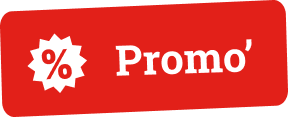
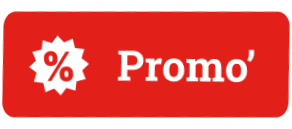
Upgrade to sdk 6.0.1 & fix discount Tag

diff --git a/Sources/CoursesUxMiamFramework/ui/RecipeDetails/Product/CoursesURecipeDetailsAddedProductView.swift b/Sources/CoursesUxMiamFramework/ui/RecipeDetails/Product/CoursesURecipeDetailsAddedProductView.swift
@@ -23,15 +23,18 @@ public struct CoursesURecipeDetailsAddedProductView: RecipeDetailsAddedProductPr
                 ingredientQuantity: params.data.ingredientQuantity,
                 isInBasket: true
             )
-            if params.data.discountType != DiscountType.unsupported && params.data.discountType != DiscountType.undiscounted {
+            if (params.data.discountType == DiscountType.strikethroughPrice || params.data.discountType == DiscountType.strikethroughPricePercentage) {
                 if let discountAmount = params.data.discountAmount {
                     HStack {
-                        Text(params.data.discountType.formatDiscountAmount(discountAmount: discountAmount) + " " + Localisation.shared.ingredient.immediateDiscount.localised).foregroundColor(
-                            Color.mealzColor(.red)).padding(Dimension.sharedInstance.sPadding)
+                        Text(params.data.discountType.formatDiscountAmount(discountAmount: discountAmount) + " " + Localisation.shared.ingredient.immediateDiscount.localised)
+                        .foregroundColor(Color.promo)
+                        .padding(Dimension.sharedInstance.sPadding)
                     }.frame(maxWidth: .infinity)
                         .padding(.horizontal, Dimension.sharedInstance.mPadding)
-                        .border(Color.mealzColor(.red))
-                        .cornerRadius(Dimension.sharedInstance.sCornerRadius)
+                        .overlay(
+                            RoundedRectangle(cornerRadius: Dimension.sharedInstance.sCornerRadius)
+                                .stroke(Color.promo, lineWidth: Dimension.sharedInstance.borderWidth)
+                        )
                         .padding(Dimension.sharedInstance.mPadding)
                 }
             } else {
@@ -76,7 +79,7 @@ public struct CoursesURecipeDetailsAddedProductView: RecipeDetailsAddedProductPr
                      discountedPrice: params.data.discountedPrice
                  ).padding(.leading, 10) */
                 VStack(alignment: .leading) {
-                    if params.data.discountType != DiscountType.unsupported && params.data.discountType != DiscountType.undiscounted {
+                    if (params.data.discountType == DiscountType.strikethroughPrice || params.data.discountType == DiscountType.strikethroughPricePercentage) {
                         Text(params.data.formattedProductPrice)
                             .strikethrough(color: Color.mealzColor(.primaryText))
                             // .miamFontStyle(style: MiamFontStyleProvider.sharedInstance.bodyStyle)

diff --git a/Sources/CoursesUxMiamFramework/ui/RecipeDetails/Product/CoursesURecipeDetailsUnAddedProductView.swift b/Sources/CoursesUxMiamFramework/ui/RecipeDetails/Product/CoursesURecipeDetailsUnAddedProductView.swift
@@ -23,15 +23,18 @@ public struct CoursesURecipeDetailsUnAddedProductView: RecipeDetailsUnaddedProdu
                 ingredientQuantity: params.data.ingredientQuantity,
                 isInBasket: false
             )
-            if params.data.discountType != DiscountType.unsupported && params.data.discountType != DiscountType.undiscounted {
+            if (params.data.discountType == DiscountType.strikethroughPrice || params.data.discountType == DiscountType.strikethroughPricePercentage) {
                 if let discountAmount = params.data.discountAmount {
                     HStack {
-                        Text(params.data.discountType.formatDiscountAmount(discountAmount: discountAmount) + " " + Localisation.shared.ingredient.immediateDiscount.localised).foregroundColor(
-                            Color.mealzColor(.red)).padding(Dimension.sharedInstance.sPadding)
+                        Text(params.data.discountType.formatDiscountAmount(discountAmount: discountAmount) + " " + Localisation.shared.ingredient.immediateDiscount.localised)
+                        .foregroundColor(Color.promo)
+                        .padding(Dimension.sharedInstance.sPadding)
                     }.frame(maxWidth: .infinity)
                         .padding(.horizontal, Dimension.sharedInstance.mPadding)
-                        .border(Color.mealzColor(.red))
-                        .cornerRadius(Dimension.sharedInstance.sCornerRadius)
+                        .overlay(
+                            RoundedRectangle(cornerRadius: Dimension.sharedInstance.sCornerRadius)
+                                .stroke(Color.promo, lineWidth: Dimension.sharedInstance.borderWidth)
+                        )
                         .padding(Dimension.sharedInstance.mPadding)
                 }
             } else {
@@ -86,7 +89,7 @@ public struct CoursesURecipeDetailsUnAddedProductView: RecipeDetailsUnaddedProdu
                      discountedPrice: params.data.discountedPrice
                  ) */
                 VStack(alignment: .leading) {
-                    if params.data.discountType != DiscountType.unsupported && params.data.discountType != DiscountType.undiscounted {
+                    if (params.data.discountType == DiscountType.strikethroughPrice || params.data.discountType == DiscountType.strikethroughPricePercentage) {
                         Text(params.data.formattedProductPrice)
                             .strikethrough(color: Color.mealzColor(.primaryText))
                             // .miamFontStyle(style: MiamFontStyleProvider.sharedInstance.bodyStyle)

diff --git a/Sources/CoursesUxMiamFramework/ui/ItemSelector/CoursesUItemSelectorSelectedProduct.swift b/Sources/CoursesUxMiamFramework/ui/ItemSelector/CoursesUItemSelectorSelectedProduct.swift
@@ -56,11 +56,20 @@ struct CoursesUItemSelectorProductRow: View {
         return VStack(spacing: 0) {
             VStack {
                 if let discountType = product.attributes?.discountType,
-                   discountType != DiscountType.unsupported && discountType != DiscountType.undiscounted
-                {
+                   discountType == DiscountType.strikethroughPrice || discountType == DiscountType.strikethroughPricePercentage {
                     if let discountAmount = product.attributes?.discountAmount {
-                        discountTopTag(discountAmount: discountAmount.doubleValue, discountType: product.attributes!.discountType!)
-                    }
+                        HStack {
+                            Text(discountType.formatDiscountAmount(discountAmount: Double(discountAmount)) + " " + Localisation.shared.ingredient.immediateDiscount.localised)
+                            .foregroundColor(.promo)
+                            .padding(Dimension.sharedInstance.sPadding)
+                        }.frame(maxWidth: .infinity)
+                            .padding(.horizontal, Dimension.sharedInstance.mPadding)
+                            .overlay(
+                                RoundedRectangle(cornerRadius: Dimension.sharedInstance.sCornerRadius)
+                                    .stroke(Color.promo, lineWidth: Dimension.sharedInstance.borderWidth)
+                            )
+                            .padding(Dimension.sharedInstance.mPadding)
+                     }
                 }
                 HStack {
                     if let picture = URL(string: product.attributes?.image ?? "") {
@@ -132,7 +141,7 @@ struct CoursesUItemSelectorProductRow: View {
         discountedPrice: Double? = nil
     ) -> some View {
         VStack(alignment: .leading) {
-            if discountType != DiscountType.unsupported && discountType != DiscountType.undiscounted {
+            if (discountType == DiscountType.strikethroughPrice || discountType == DiscountType.strikethroughPricePercentage) {
                 Text(formattedProductPrice)
                     .strikethrough(color: Color.mealzColor(.primaryText))
                     // .miamFontStyle(style: MiamFontStyleProvider.sharedInstance.bodyStyle)

diff --git a/Package.swift b/Package.swift
@@ -20,7 +20,7 @@ let package = Package(
     ],
     dependencies: {
         var dependencies: [Package.Dependency] = []
-        
+
         if configurationMode == "dev" {
             dependencies.append(contentsOf: [
                 .package(path: "../MealzCore"),
@@ -28,8 +28,8 @@ let package = Package(
             ])
         } else {
             dependencies.append(contentsOf: [
-                .package(url: "https://github.com/miamtech/MealziOSSDKRelease", exact: "6.0.0"),
-                .package(url: "https://github.com/miamtech/MealzCoreRelease", exact: "6.0.0")
+                .package(url: "https://github.com/miamtech/MealziOSSDKRelease", exact: "6.0.1"),
+                .package(url: "https://github.com/miamtech/MealzCoreRelease", exact: "6.0.1")
             ])
         }
         return dependencies

diff --git a/Sources/CoursesUxMiamFramework/Theme/Color.swift b/Sources/CoursesUxMiamFramework/Theme/Color.swift
@@ -25,5 +25,7 @@ extension Color {
     static let lightGrayBackground = Color(red: 245 / 255, green: 244 / 255, blue: 242 / 255)
     static let danger = Color(red: 243 / 255, green: 131 / 255, blue: 27 / 255) // #F3831B
     static let dangerBackground = Color(red: 255 / 255, green: 228 / 255, blue: 208 / 255) // #FFE4D0
+
+    static let promo = Color(red: 226 / 255, green: 32 / 255, blue: 25 / 255) // #E22019 (Red Courses U for promo)
 }
 

diff --git a/changelog.md b/changelog.md
@@ -1,3 +1,6 @@
+# 6.0.1
+- [FIX] Promo tag styles
+
 # 5.10.8
 - [FIX] Item selector label in case of substitution
 - [FIX] Remove ignore product button for already added product in recipe
